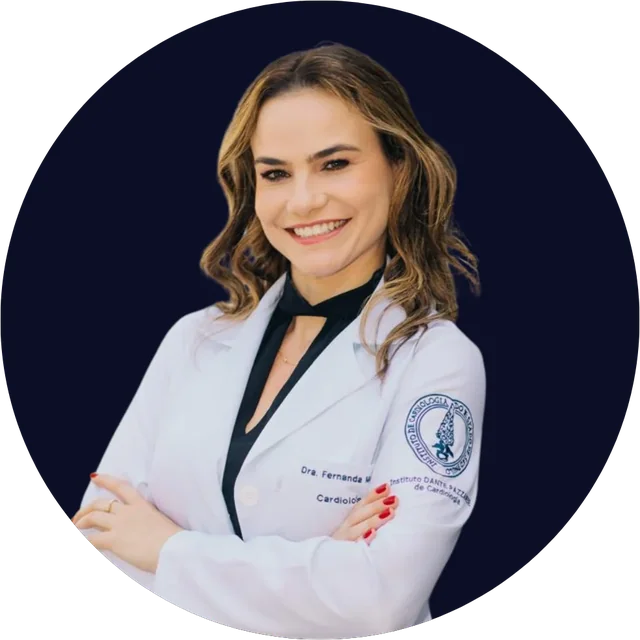
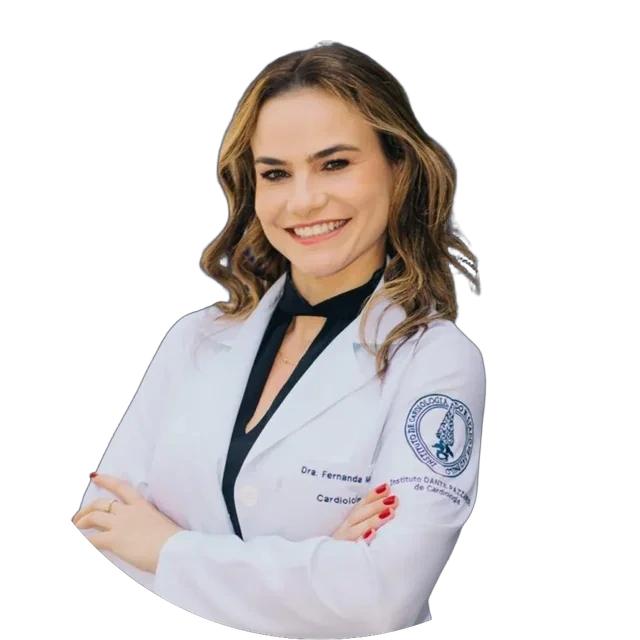
Fix inconsistent photo backgrounds and update Exames laudistas roster
Remove the navy-circle background baked into Dra. Fernanda's, Dr.
Arthur's and Dra. Juliana's photos so every doctor photo now floats on
transparent background like the rest of the team. On the Exames LP,
drop Dra. Valessa Tanganelli (no photo/CRM on file) and add Dr.
Guilherme, Dr. Edgar and Dra. Juliana to the laudistas grid.

diff --git a/instituto-cardiologia-sorriso-exames/index.html b/instituto-cardiologia-sorriso-exames/index.html
@@ -40,11 +40,13 @@
   },
   "employee": [
     { "@type": "Physician", "name": "Dr. Felipe Finoketti", "identifier": "CRM-MT 11274 / RQE 5373-5513", "medicalSpecialty": "Ecocardiografia" },
-    { "@type": "Physician", "name": "Dra. Valessa Tanganelli", "medicalSpecialty": "Ecocardiografia" },
     { "@type": "Physician", "name": "Dra. Fernanda Morais", "medicalSpecialty": "Cardiologia" },
     { "@type": "Physician", "name": "Dr. Rafael Valentini", "identifier": "CRM-MT 9908 / RQE 4385", "medicalSpecialty": "Diagnóstico por Imagem Cardiovascular" },
     { "@type": "Physician", "name": "Dr. Bruno S. Finkler", "identifier": "CRM-MT 13305 / RQE 6291-6292", "medicalSpecialty": "Eletrofisiologia e Arritmias" },
     { "@type": "Physician", "name": "Dr. Danilo Barros Zanotta", "identifier": "CRM-MT 14306 / RQE 6911-6912", "medicalSpecialty": "Eletrofisiologia e Cardiologia do Esporte" },
+    { "@type": "Physician", "name": "Dr. Guilherme H. Lazaron", "identifier": "CRM-MT 9804 / RQE 6889", "medicalSpecialty": "Cirurgia Cardiovascular" },
+    { "@type": "Physician", "name": "Dr. Edgar Stroppa Lamas", "identifier": "CRM-MT 8768 / RQE 3819-3912", "medicalSpecialty": "Cardiologia Intervencionista" },
+    { "@type": "Physician", "name": "Dra. Juliana Souza Pires", "identifier": "CRM-MT 14308 / RQE 6914", "medicalSpecialty": "Endocrinologia" },
     { "@type": "Physician", "name": "Dra. Flávia Teixeira", "identifier": "CRM-MT 17879 / RQE 8968-8899", "medicalSpecialty": "Cardiologia Pediátrica" },
     { "@type": "Physician", "name": "Dr. Arthur Coelho Moura Marinho", "identifier": "CRM-MT 14327 / RQE 7023-7312", "medicalSpecialty": "Neurologia e Neurofisiologia Clínica" }
   ]
@@ -187,11 +189,6 @@
           <p class="doctor-specialty">Ecocardiograma adulto e pediátrico, eco avançado</p>
         </div>
         <div class="doctor-card doctor-card-compact">
-          <span class="doctor-photo-placeholder" aria-hidden="true">VT</span>
-          <div class="doctor-name">Dra. Valessa Tanganelli</div>
-          <p class="doctor-specialty">Ecocardiograma adulto, pediátrico e fetal</p>
-        </div>
-        <div class="doctor-card doctor-card-compact">
           <img class="doctor-photo" src="assets/equipe/fernanda-morais.webp" width="140" height="140" loading="lazy" alt="Dra. Fernanda Morais">
           <div class="doctor-name">Dra. Fernanda Morais</div>
           <div class="doctor-reg">Cardiologista</div>
@@ -226,6 +223,24 @@
           <div class="doctor-name">Dr. Arthur Coelho Moura Marinho</div>
           <div class="doctor-reg">CRM-MT 14327 · RQE 7023/7312</div>
           <p class="doctor-specialty">Eletroencefalograma (EEG)</p>
+        </div>
+        <div class="doctor-card doctor-card-compact">
+          <img class="doctor-photo" src="assets/equipe/guilherme-lazaron.webp" width="140" height="140" loading="lazy" alt="Dr. Guilherme H. Lazaron">
+          <div class="doctor-name">Dr. Guilherme H. Lazaron</div>
+          <div class="doctor-reg">CRM-MT 9804 · RQE 6889</div>
+          <p class="doctor-specialty">Cirurgia Cardiovascular</p>
+        </div>
+        <div class="doctor-card doctor-card-compact">
+          <img class="doctor-photo" src="assets/equipe/edgar-stroppa-lamas.webp" width="140" height="140" loading="lazy" alt="Dr. Edgar Stroppa Lamas">
+          <div class="doctor-name">Dr. Edgar Stroppa Lamas</div>
+          <div class="doctor-reg">CRM-MT 8768 · RQE 3819/3912</div>
+          <p class="doctor-specialty">Cardiologia Intervencionista</p>
+        </div>
+        <div class="doctor-card doctor-card-compact">
+          <img class="doctor-photo" src="assets/equipe/juliana-souza-pires.webp" width="140" height="140" loading="lazy" alt="Dra. Juliana Souza Pires">
+          <div class="doctor-name">Dra. Juliana Souza Pires</div>
+          <div class="doctor-reg">CRM-MT 14308 · RQE 6914</div>
+          <p class="doctor-specialty">Endocrinologia</p>
         </div>
       </div>
     </div>
